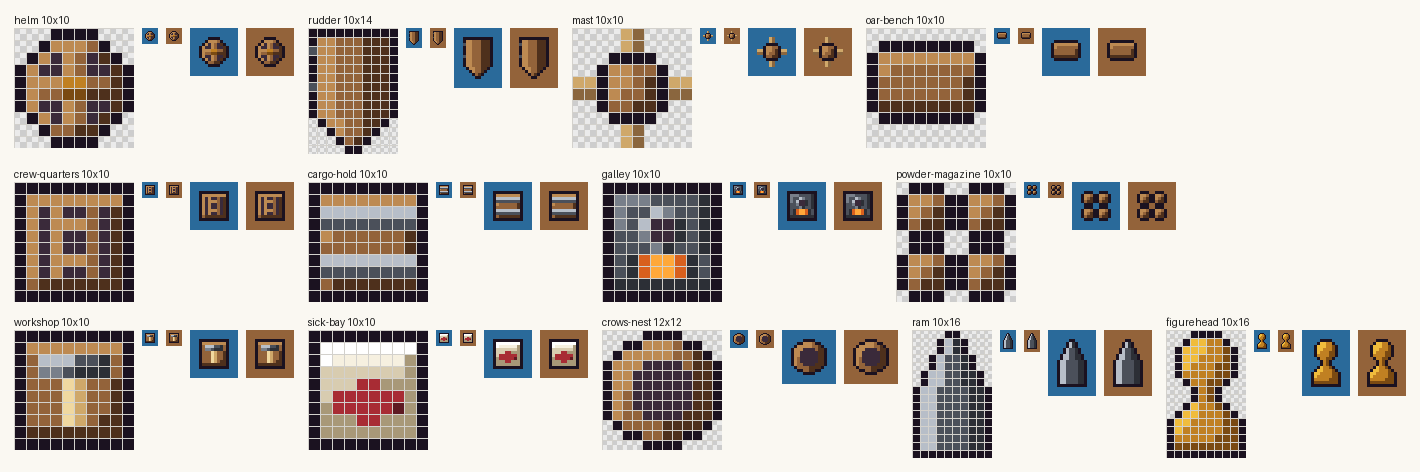
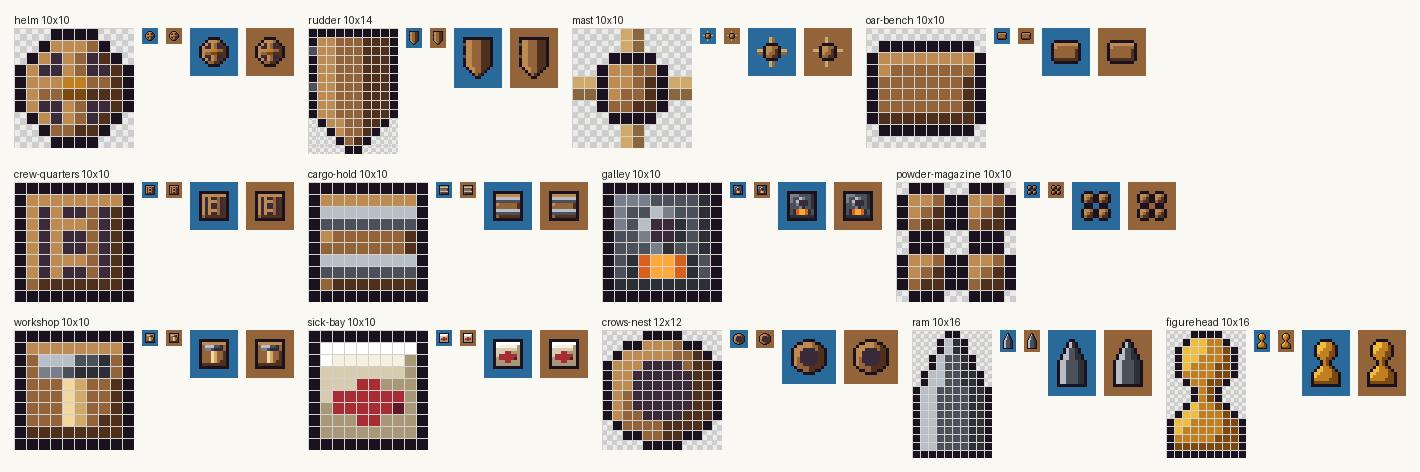
Approve full-resolution deck tiles and stern lantern
Claude-Session: https://claude.ai/code/session_017hBigdyyagtCxF8RX9TYQB

Changed region(s): [[0.5887, 0.2076, 0.7127, 0.2966], [0.7437, 0.1186, 0.8056, 0.1483]]

diff --git a/src/art/redraw.ts b/src/art/redraw.ts
@@ -3,7 +3,11 @@ import { art, Art } from './palette';
 const SCALE = 1;
 
 const ROWS: Record<string, string[]> = {
-  'long-gun': ['...kkkk...', '...kNNk...', '...kNMk...', '...kNMk...', '...kNMk...', '...kNMk...', '...kNMk...', '...kNMk...', '...kNMk...', '...kNMk...', '..kNnMMk..', '..kNnMMk..', '..kNnMMk..', '.kvvVVwwk.', '.kWvVVwWk.', '..kkkkkk..']
+  'deck-logs': ['wVvvWwVvvW', 'wVvvWwVvvW', 'wVvvWwVvvW', 'wVvvWwVvvW', 'DffffDffff', 'dDDDDdDDDD', 'wVvvWwVvvW', 'wVvvWwVvvW', 'wVvvWwVvvW', 'wVvvWwVvvW'],
+  'deck-planks': ['VvvvWVvvvW', 'VvvvWVvvvW', 'VvvvWVvvvW', 'VvvvWVvvvW', 'WWWWWVvvvW', 'VvvvWWWWWW', 'VvvvWVvvvW', 'VvvvWVvvvW', 'VvvvWVvvvW', 'VvvvWVvvvW'],
+  'iron-bands': ['..........', 'nnnnnnnnnn', 'nNnnnnnNnn', 'MMMMMMMMMM', '..........', '..........', 'nnnnnnnnnn', 'nNnnnnnNnn', 'MMMMMMMMMM', '..........'],
+  'long-gun': ['...kkkk...', '...kNNk...', '...kNMk...', '...kNMk...', '...kNMk...', '...kNMk...', '...kNMk...', '...kNMk...', '...kNMk...', '...kNMk...', '..kNnMMk..', '..kNnMMk..', '..kNnMMk..', '.kvvVVwwk.', '.kWvVVwWk.', '..kkkkkk..'],
+  'stern-lantern': ['.yyO.', 'yYYYO', 'yYYYO', 'yYYYo', '.Ooo.']
 };
 
 const cache = new Map<string, Art>();

diff --git a/art/APPROVED.md b/art/APPROVED.md
@@ -3,3 +3,7 @@
 Families the critic has passed. Match their style.
 
 - long-gun (ship) — round 1
+- deck-planks (ship) — round 1
+- deck-logs (ship) — round 1
+- iron-bands (ship) — round 1
+- stern-lantern (ship) — round 1

diff --git a/art/work/workshop/notes.md b/art/work/workshop/notes.md
@@ -1,0 +1,2 @@
+# workshop
+Carpenter's bench (V top edge, v top, w bottom edge) with an iron hammer: head across the top, light F/f handle running down.

diff --git a/art/work/figurehead/notes.md b/art/work/figurehead/notes.md
@@ -1,0 +1,2 @@
+# figurehead
+Gold bust on the bow: head, narrow neck, wide shoulders on the cell. y highlight top-left, O base, o shadow right/bottom.

diff --git a/art/work/rudder/notes.md b/art/work/rudder/notes.md
@@ -1,0 +1,2 @@
+# rudder
+Wooden rudder blade, flat attachment edge on the stern, two iron pintles on the left, tapering to a point 4 px past the cell.

diff --git a/art/work/mast/notes.md b/art/work/mast/notes.md
@@ -1,0 +1,2 @@
+# mast
+Mast base from above: round post (V lit top-left, w shadow) with four rope stays, lit f on top/left, D on bottom/right.

diff --git a/art/work/galley/notes.md b/art/work/galley/notes.md
@@ -1,0 +1,2 @@
+# galley
+Iron stove from above: chimney pipe as a dark hole ringed in light iron, glowing firebox (q Q) below, shadowed base.

diff --git a/art/work/crew-quarters/notes.md b/art/work/crew-quarters/notes.md
@@ -1,0 +1,2 @@
+# crew-quarters
+Hatch frame (V lit, w shadow) around a dark K shaft; ladder rails V/v with rungs at rows 3 and 6.

diff --git a/art/work/crows-nest/notes.md b/art/work/crows-nest/notes.md
@@ -1,0 +1,2 @@
+# crows-nest
+Round lookout basket: 2 px wood rim (V lit top-left, w shadow bottom-right) round a dark K floor.

diff --git a/art/work/helm/notes.md b/art/work/helm/notes.md
@@ -1,0 +1,2 @@
+# helm
+Ship's wheel from above: round wood rim, four spokes meeting a brass hub, dark K gaps between spokes.

diff --git a/art/work/ram/notes.md b/art/work/ram/notes.md
@@ -1,0 +1,2 @@
+# ram
+Iron ram: spear point on the top 6 rows, 10 px plate on the bow. Lit left N, mid M, shadow right m.

diff --git a/art/work/sick-bay/notes.md b/art/work/sick-bay/notes.md
@@ -1,0 +1,2 @@
+# sick-bay
+Cot: white pillow at the head, cloth blanket with a red cross; only the top-left is lit.
